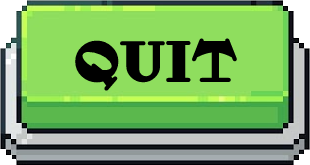
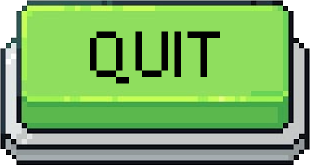
New buttons + Pause menu bug fixed

Changed region(s): [[0.2323, 0.1818, 0.7839, 0.5455]]

diff --git a/game-copy.py b/game-copy.py
@@ -34,6 +34,8 @@ menu_state = "main"
 main_m_state = "principal"
 clicked = False
 
+shooting = True
+
 # define player action variables
 moving_left = False
 moving_right = False
@@ -160,6 +162,7 @@ class Soldier(pygame.sprite.Sprite):
         pygame.sprite.Sprite.__init__(self)
         self.alive = True
         self.char_type = char_type
+        self.original_speed = speed
         self.speed = speed
         self.ammo = ammo
         self.an_col = an_col
@@ -204,6 +207,7 @@ class Soldier(pygame.sprite.Sprite):
     def update(self):
         self.update_animation()
         self.check_alive()
+        self.check_paused()
         #update cooldown
         if self.shoot_cooldown > 0:
             self.shoot_cooldown -= 1
@@ -300,7 +304,7 @@ class Soldier(pygame.sprite.Sprite):
                 self.idling = True
                 self.idling_counter = 50
             #check if the ai is near the player
-            if self.vision.colliderect(player.rect):
+            if self.vision.colliderect(player.rect) and shooting == True:
                 #stop running and face the plyer
                 self.update_action(0)
                 #shoot
@@ -362,8 +366,12 @@ class Soldier(pygame.sprite.Sprite):
             self.speed = 0
             self.alive = False
             self.update_action(3)
-            
         
+    def check_paused(self):
+        if game_paused == True:
+            self.speed = 0
+        else:
+            self.speed = self.original_speed
          
     def draw(self):
         screen.blit(pygame.transform.flip(self.image, self.flip, False), self.rect)
@@ -625,6 +633,7 @@ while run:
         if event.type == pygame.KEYDOWN:
             if event.key == pygame.K_p and player.alive:
                 game_paused = True
+                shooting = False
             if event.key == pygame.K_a:
                 moving_left = True
             if event.key == pygame.K_d:
@@ -744,6 +753,7 @@ while run:
                     screen.fill(BG2)
                     if resume_button.draw(screen) and clicked == False:
                         game_paused = False
+                        shooting = True
                         clicked = True
                     if options_button.draw(screen) and clicked == False:
                         menu_state = "options"
